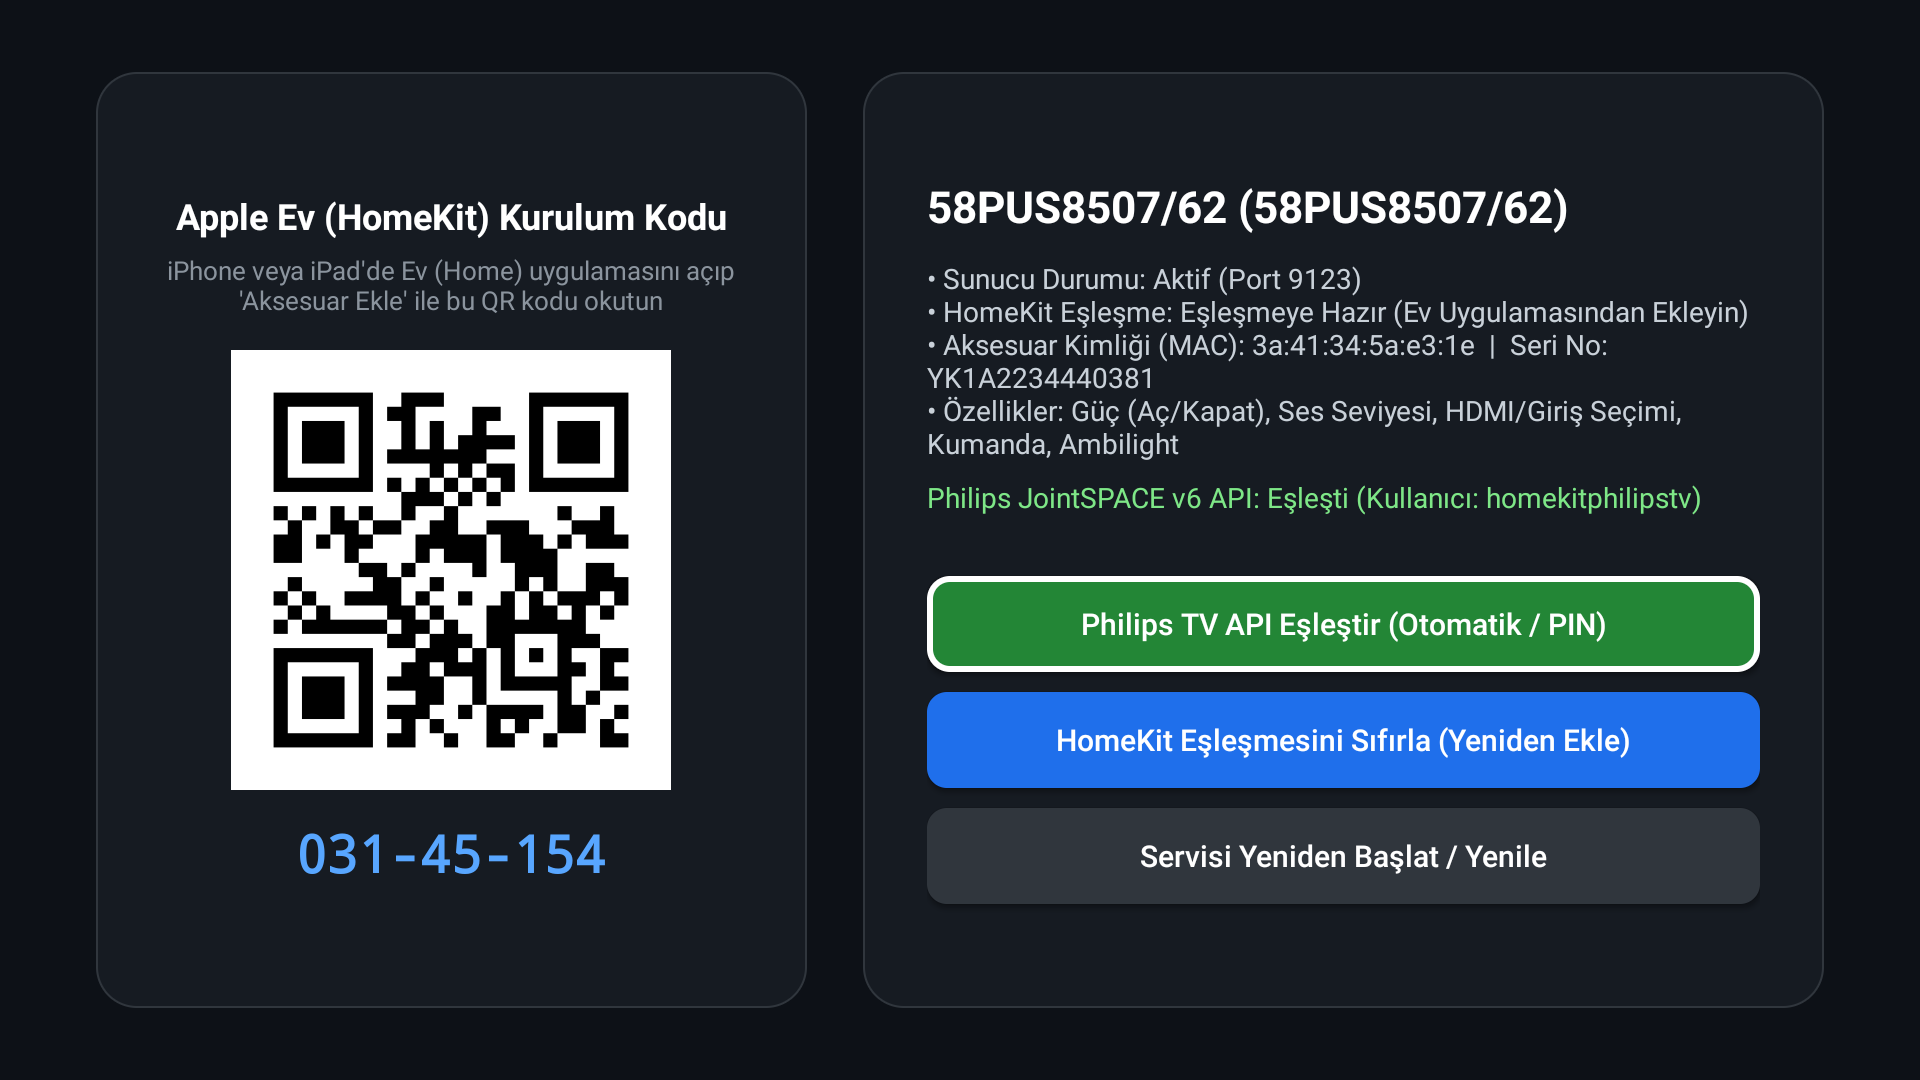
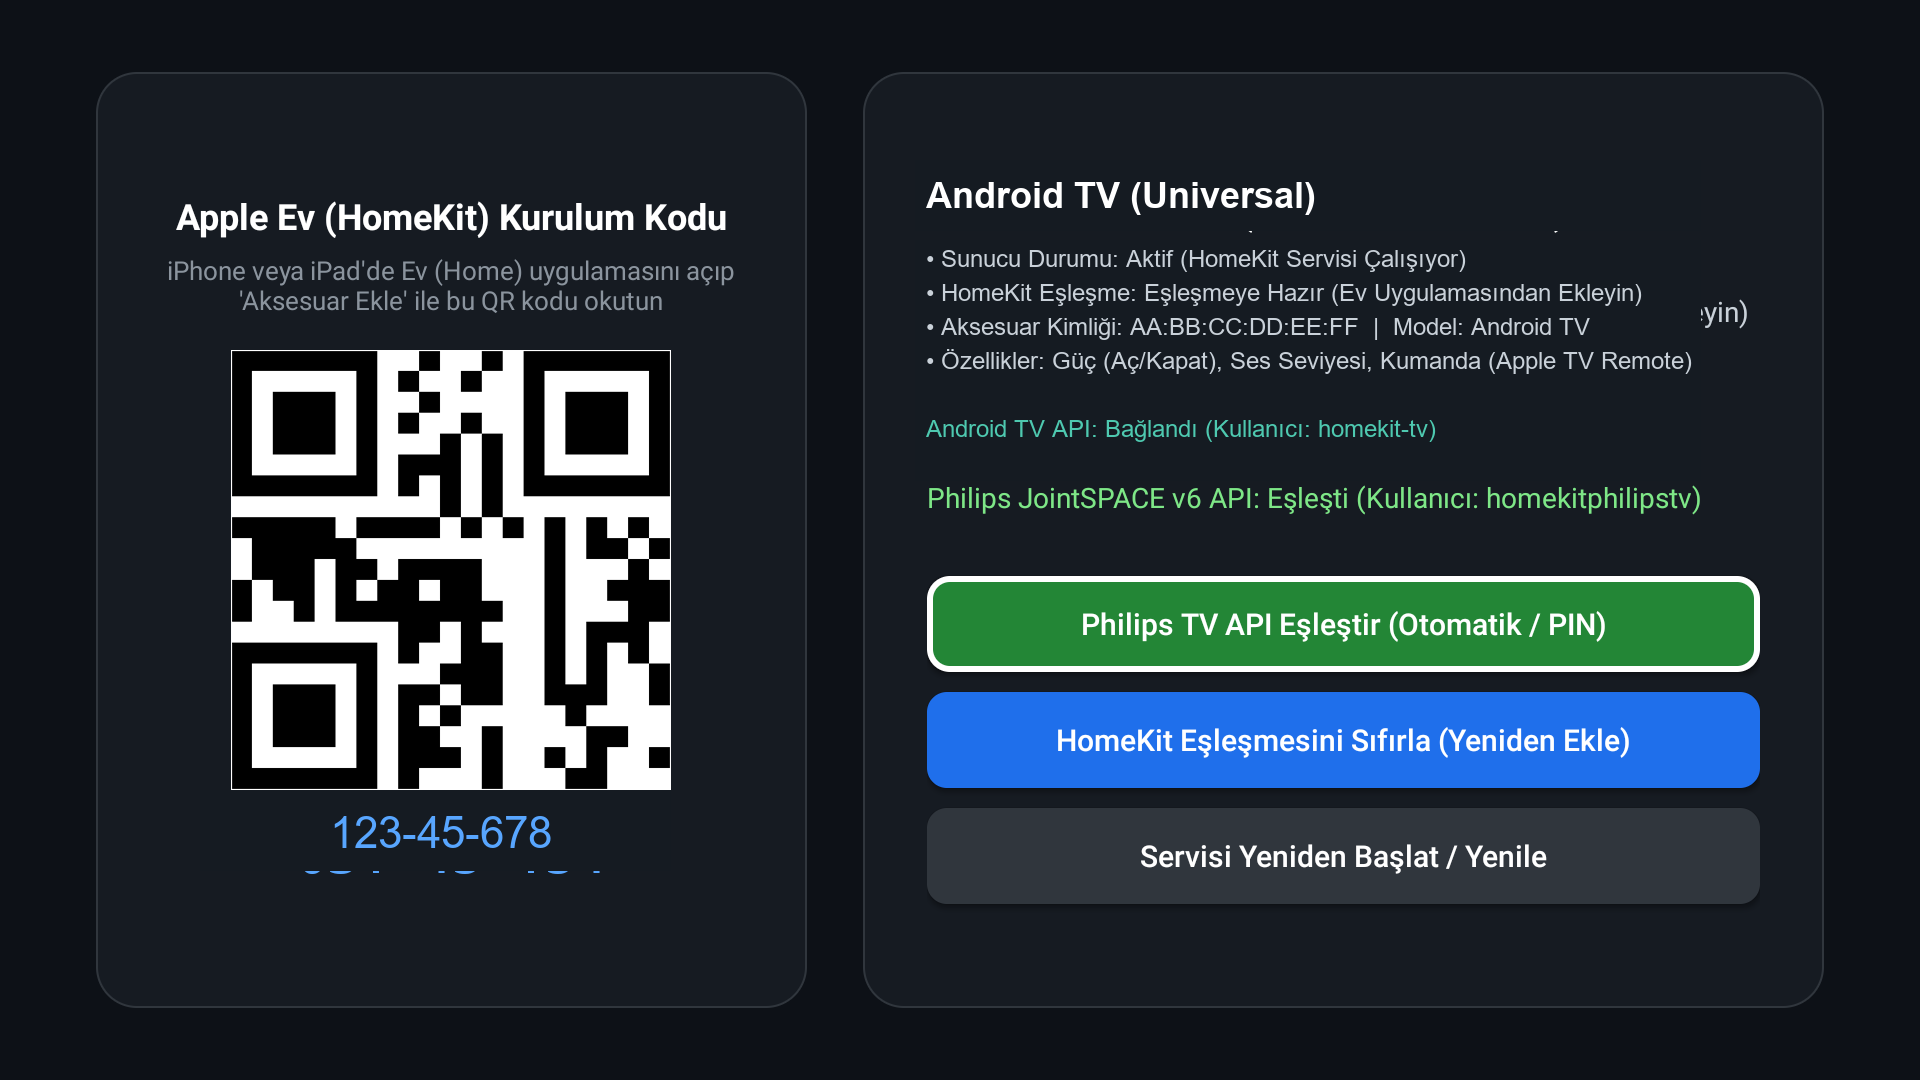
Sanitize screenshots and remove hardcoded credentials, generalize TV API labels

Changed region(s): [[0.0938, 0.3056, 0.375, 0.825], [0.4688, 0.1528, 0.875, 0.4278]]

diff --git a/app/src/main/java/uk/org/fancy/AndroidTvHomeKit/MainActivity.java b/app/src/main/java/uk/org/fancy/AndroidTvHomeKit/MainActivity.java
@@ -172,7 +172,7 @@ public class MainActivity extends Activity {
         rightCard.addView(statusDetailsView, detailsLp);
 
         xtvStatusView = new TextView(this);
-        xtvStatusView.setText("Philips JointSPACE API: Kontrol ediliyor...");
+        xtvStatusView.setText("Gelişmiş TV API (Ambilight): Kontrol ediliyor...");
         xtvStatusView.setTextColor(Color.parseColor("#7EE787"));
         xtvStatusView.setTextSize(TypedValue.COMPLEX_UNIT_SP, 14);
         LinearLayout.LayoutParams xtvLp = new LinearLayout.LayoutParams(
@@ -183,7 +183,7 @@ public class MainActivity extends Activity {
         xtvLp.bottomMargin = dp(20);
         rightCard.addView(xtvStatusView, xtvLp);
 
-        Button pairXtvButton = createActionButton("Philips TV API Eşleştir (Otomatik / PIN)", "#238636");
+        Button pairXtvButton = createActionButton("Gelişmiş TV API Eşleştir (Ambilight / Ekstra)", "#238636");
         pairXtvButton.setOnClickListener(v -> startPhilipsApiPairing());
         rightCard.addView(pairXtvButton, createButtonLayoutParams());
 
@@ -290,8 +290,8 @@ public class MainActivity extends Activity {
             Television tv = (Television) svc.implementation;
             boolean hasCreds = tv.xtvhttp.hasCredentials();
             xtvStatusView.setText(hasCreds
-                ? "Philips JointSPACE v6 API: Eşleşti (Kullanıcı: " + tv.xtvhttp.getUsername() + ")"
-                : "Philips JointSPACE v6 API: Eşleşmedi (Aşağıdaki butonla eşleştirin)");
+                ? "Gelişmiş TV API: Eşleşti (Ambilight & Girişler Aktif)"
+                : "Gelişmiş TV API: Eşleşmedi (Philips Ambilight için aşağıdaki butonla eşleştirin)");
             xtvStatusView.setTextColor(Color.parseColor(hasCreds ? "#7EE787" : "#FFA657"));
         }
     }

diff --git a/app/src/main/java/uk/org/fancy/AndroidTvHomeKit/Philips/Television.java b/app/src/main/java/uk/org/fancy/AndroidTvHomeKit/Philips/Television.java
@@ -23,8 +23,8 @@ public class Television implements TelevisionInterface,
     public static final String PREFS_NAME = "homekit_prefs";
     public static final String PREF_XTV_USER = "xtv_username";
     public static final String PREF_XTV_PASS = "xtv_password";
-    private static final String DEFAULT_USER = "homekitphilipstv";
[1 lines of base64/hex data omitted]
+    private static final String DEFAULT_USER = "";
+    private static final String DEFAULT_PASS = "";
 
     public final HomeKitService service;
     public final XTvHttp xtvhttp;
